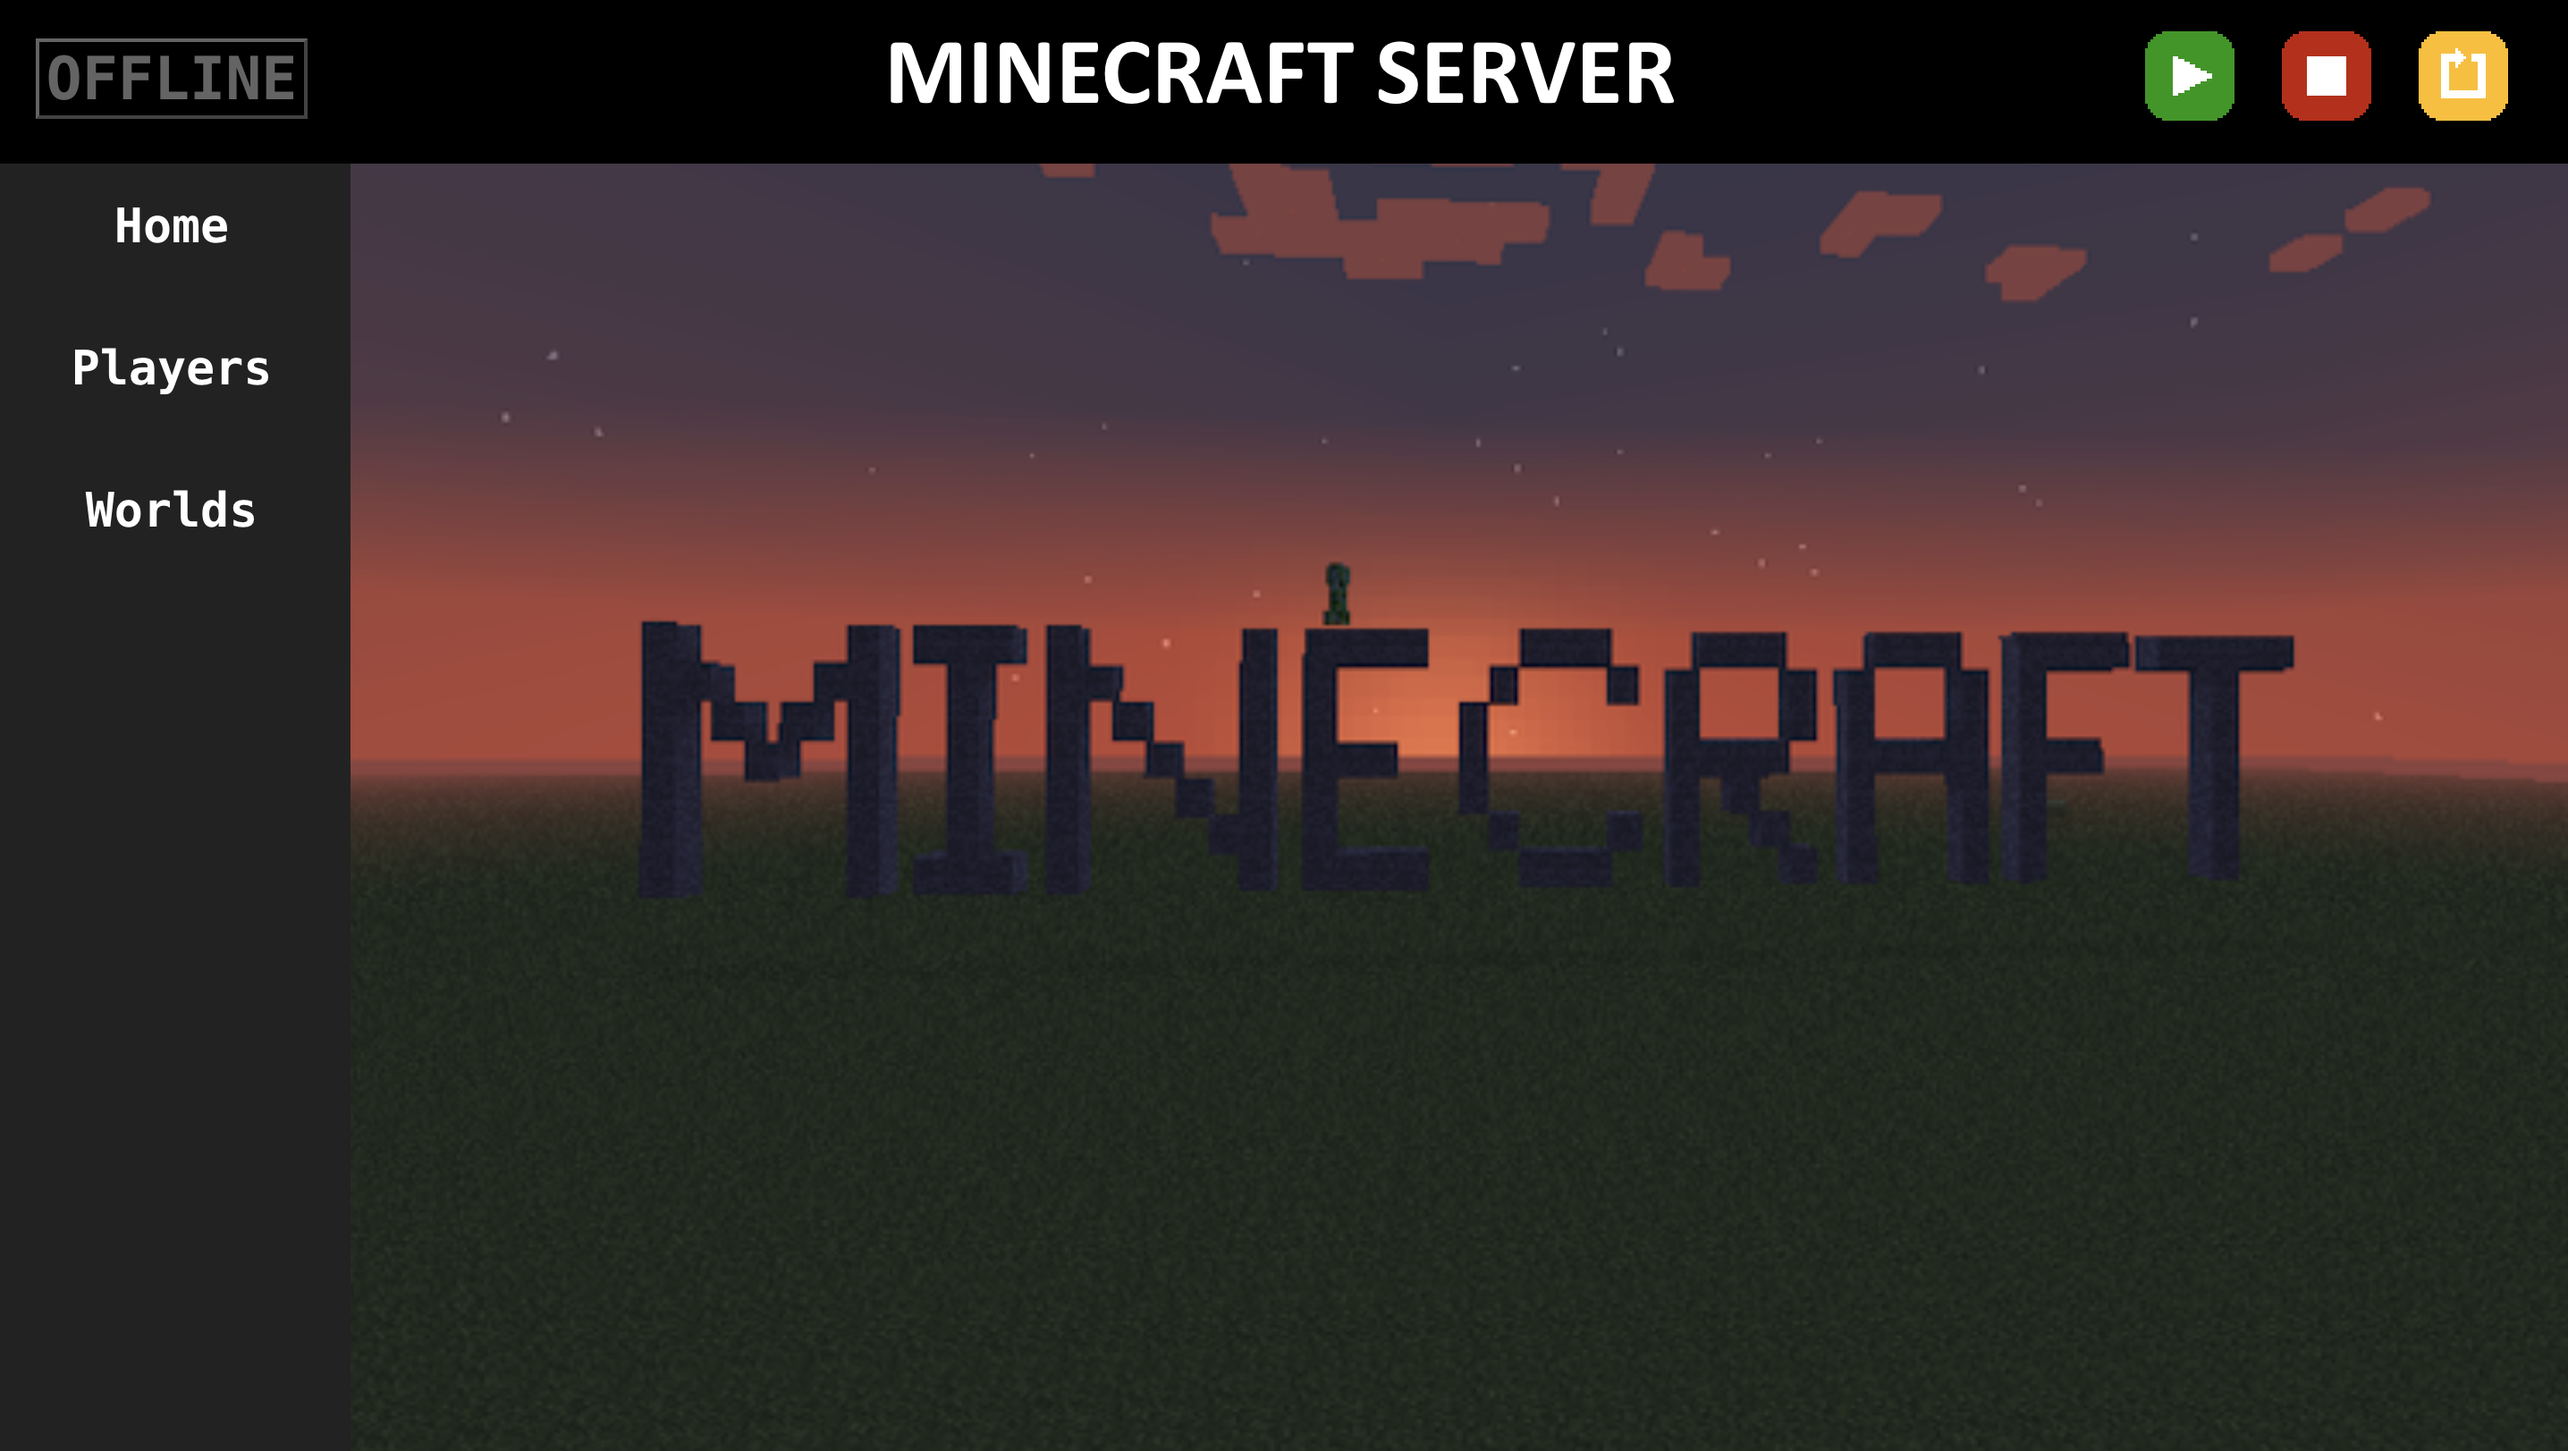
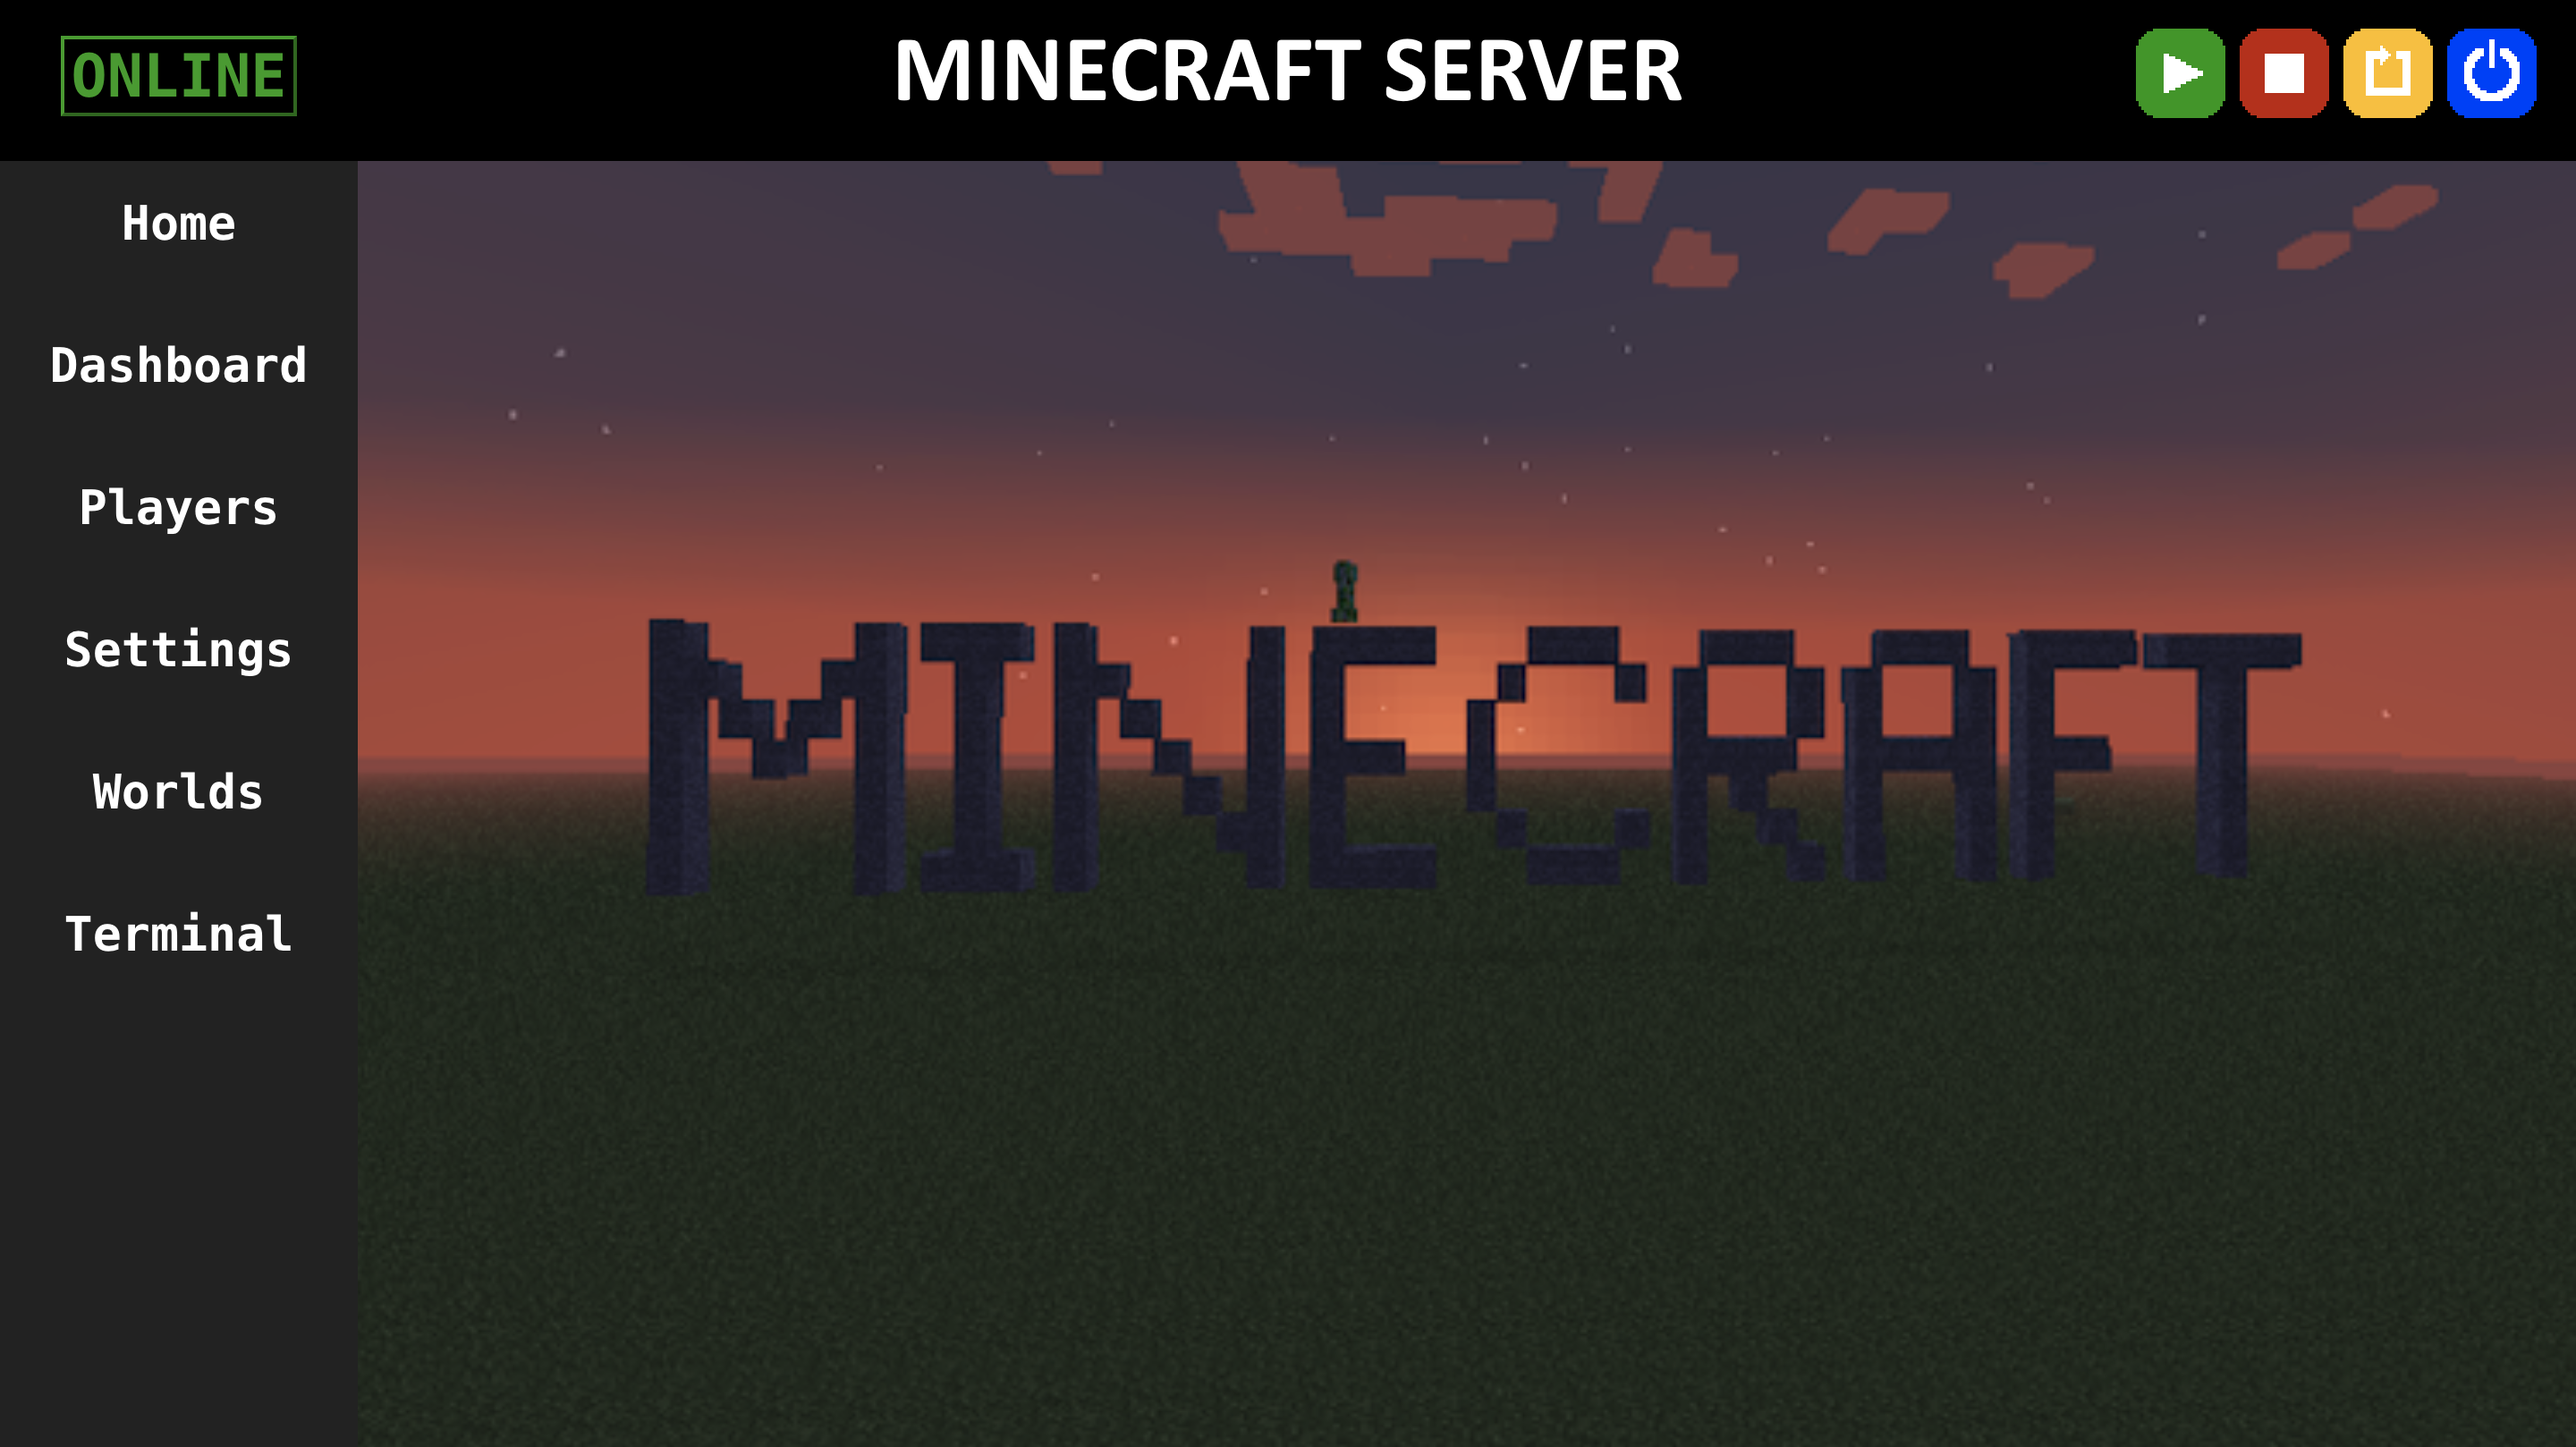
Updated Readme Images

diff --git a/README.md b/README.md
@@ -3,10 +3,37 @@
 Minecraft server web interface for players to control server settings remotely.
 
 ## Homepage
+
+Firestorm loads the home tab as default when a user connects to the webpage. It plays a slideshow of pictures from different worlds played on the server.
+
 ![Home](images/home.png)
 
+## Dashboard
+
+The dashboard presents basic system stats such as CPU and RAM usage, as well as server stats such as the number of players online and the current loaded world. It also features a slider which controls how much RAM is allocated towards running the Minecraft server process.
+
+![Dashboard](images/dashboard.png)
+
 ## Players Tab
+
+The players tab presents a list of all currently whitelisted players. Players can also be added, removed, and given "oped", or moderator status on the Minecraft Server. Each player also has their own status light which turns green when they are online.
+
 ![Players](images/players.png)
 
+## Settings Tab
+
+The settings tab allows the Minecraft server's settings to be modified and saved from the webpage.
+
+![Settings](images/settings.png)
+
 ## Worlds Tab
+
+The worlds tab displays a list of all the worlds currently stored in the server's files. From this list, players can click specific worlds to load them onto the server. Worlds can also be uploaded in the form of ZIP files, and can also be removed and sent to the archive. This tab also has a backup feature which backs up all available world data to the computer's SSD drive and to an external SD card. This feature also disables the webpage to prevent players from modifying the server files during a backup.
+
 ![Worlds](images/worlds.png)
+
+## Terminal Tab
+
+The terminal tab allows for commands to be piped straight into the Minecraft Server process. 
+
+![Terminal](images/terminal.png)
